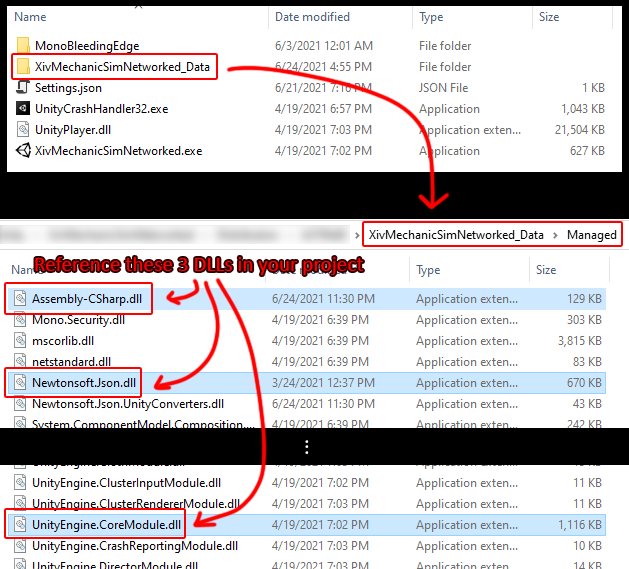
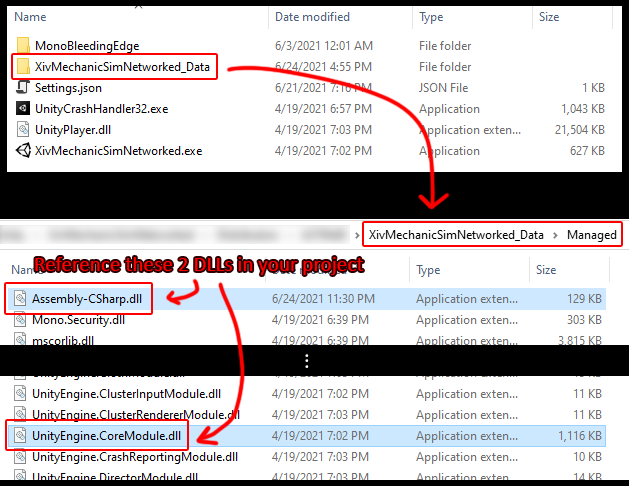
Remove unused Newtonsoft json dll from references

diff --git a/README.md b/README.md
@@ -21,7 +21,7 @@ Mechanic Folder: [xiv-sim-mechanics](https://github.com/xiv-stats/xiv-sim-mechan
 # Scripting Setup (C#)
 As of the [`2021-06-24-v2`](https://github.com/xiv-stats/xiv-sim-documentation/releases/tag/2021-06-24-v2) release, you can now create the mechanic json files using C#. You can use any IDE/scripting environment that you would like.
 
-In order to set up your project, you will need to reference the following 3 DLLs in your project, located in the `XivMechanicSimNetworked_Data/Managed` folder:
+In order to set up your project, you will need to reference the following 2 DLLs in your project, located in the `XivMechanicSimNetworked_Data/Managed` folder:
 
 ![](Images/DllLocation.png)
 
